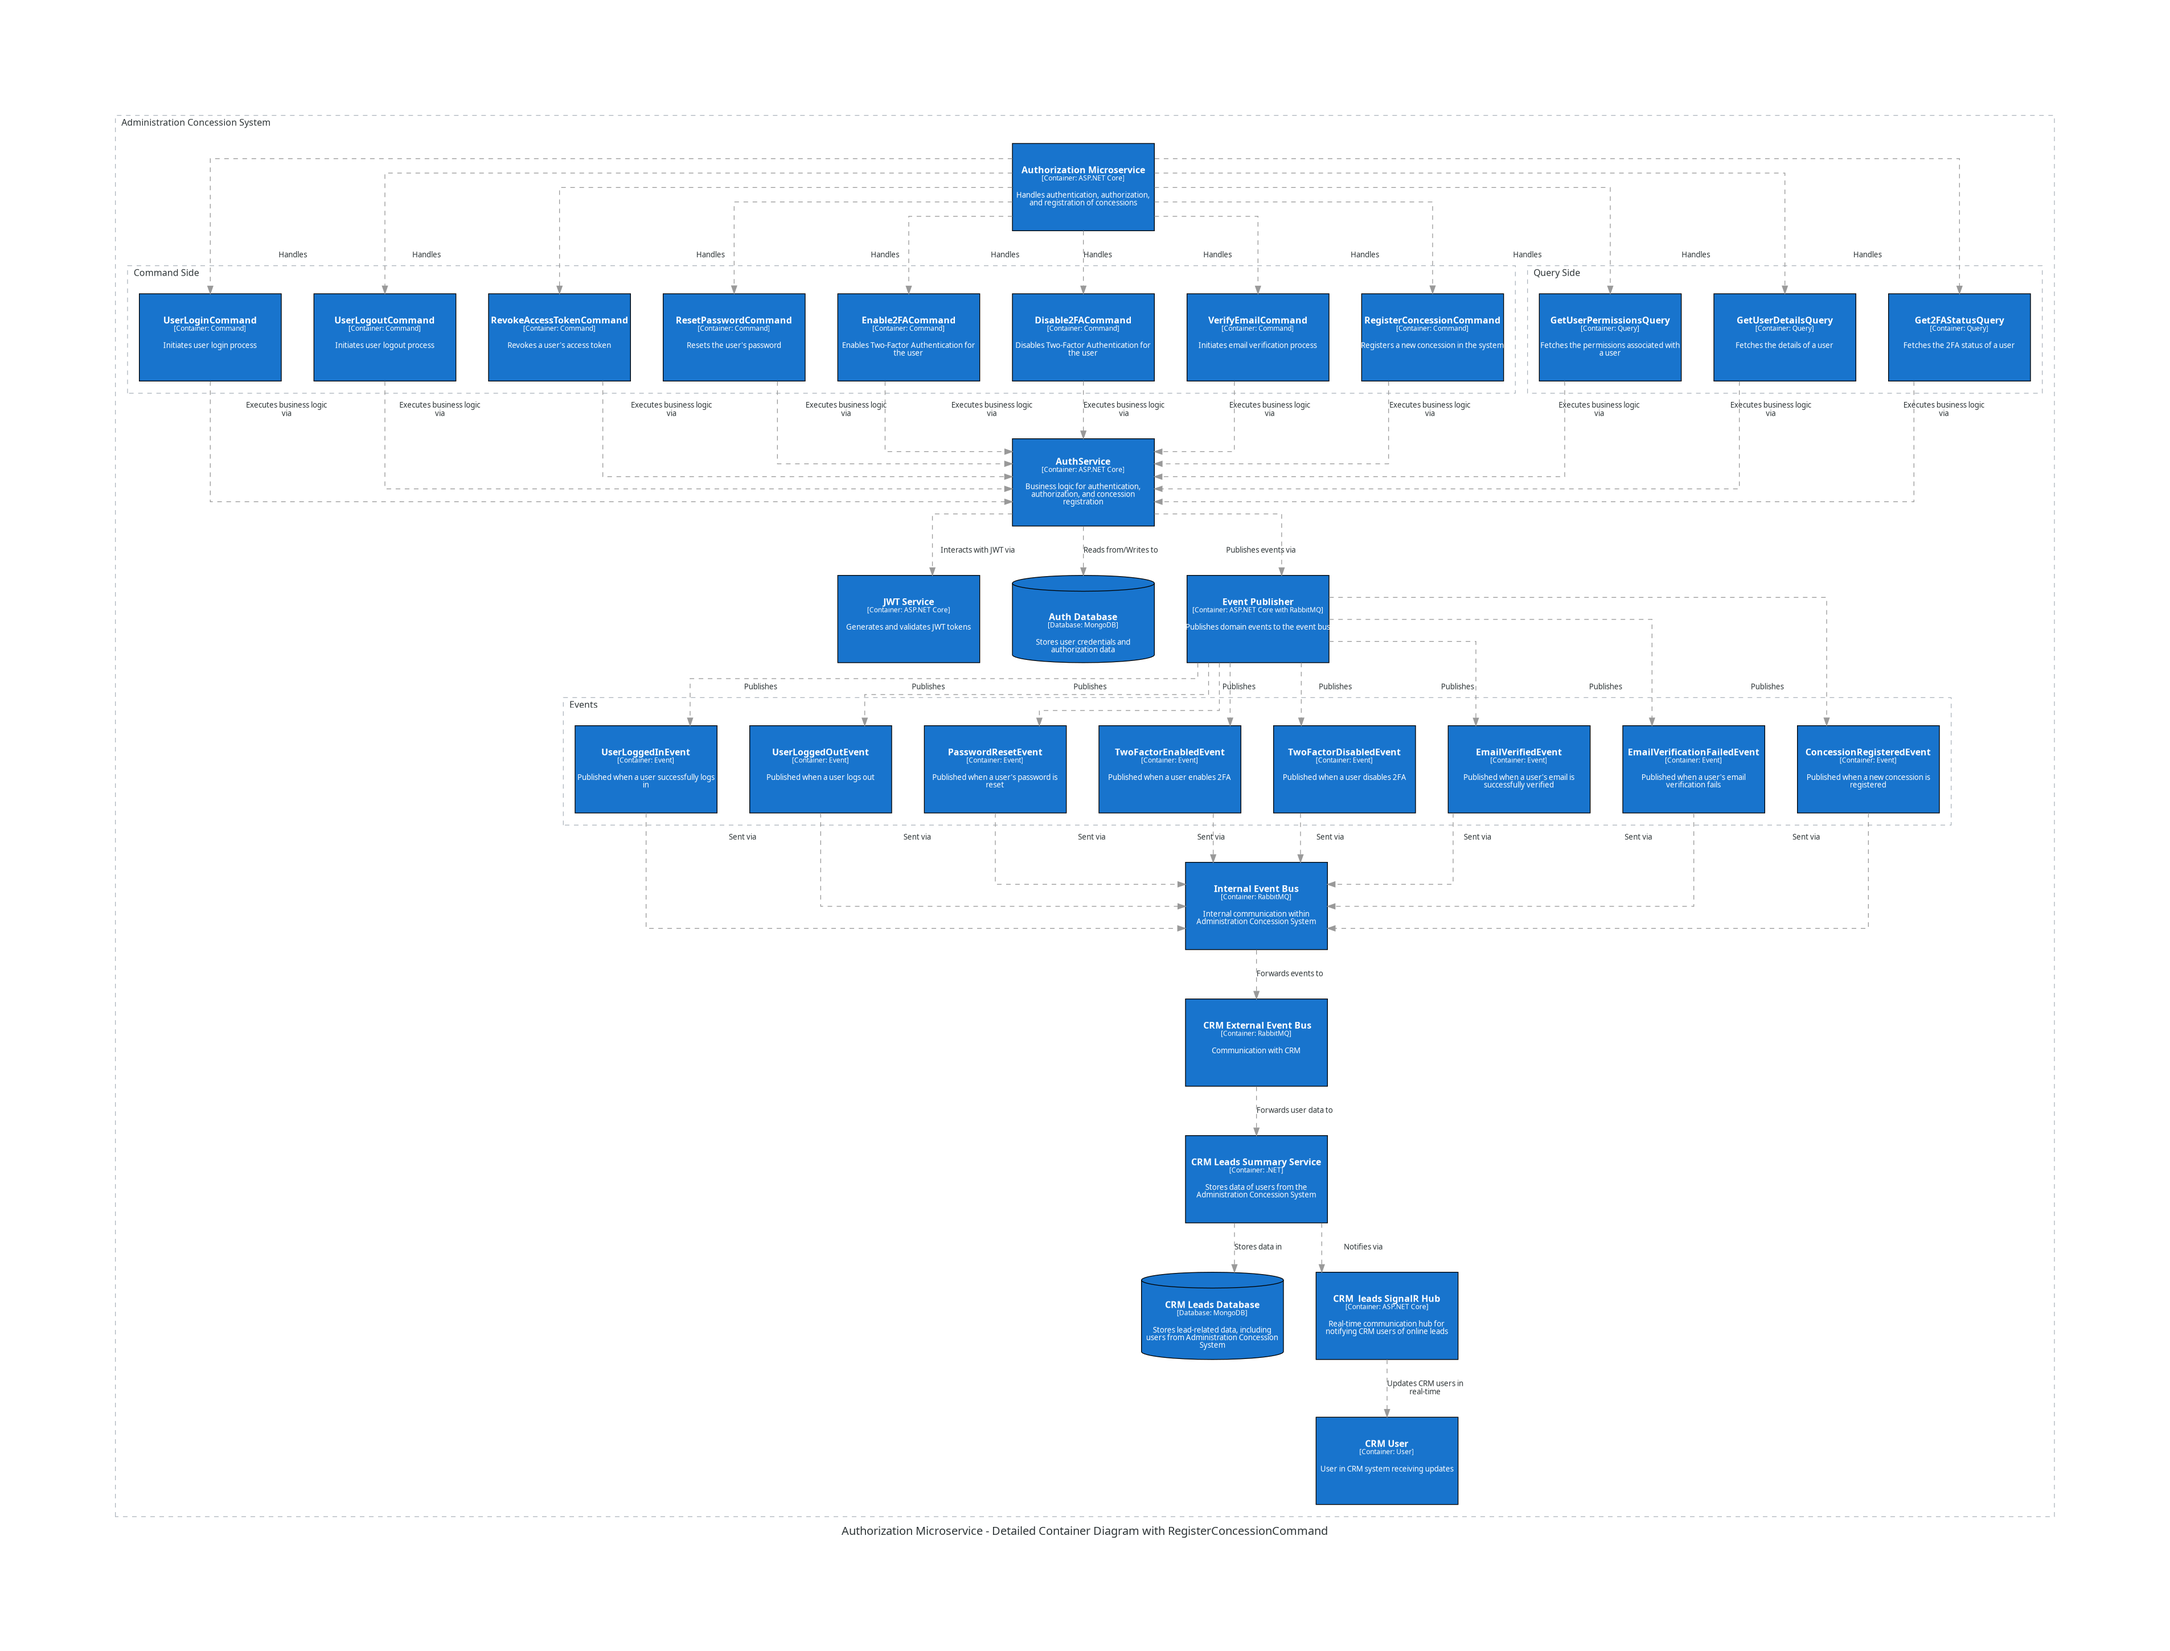
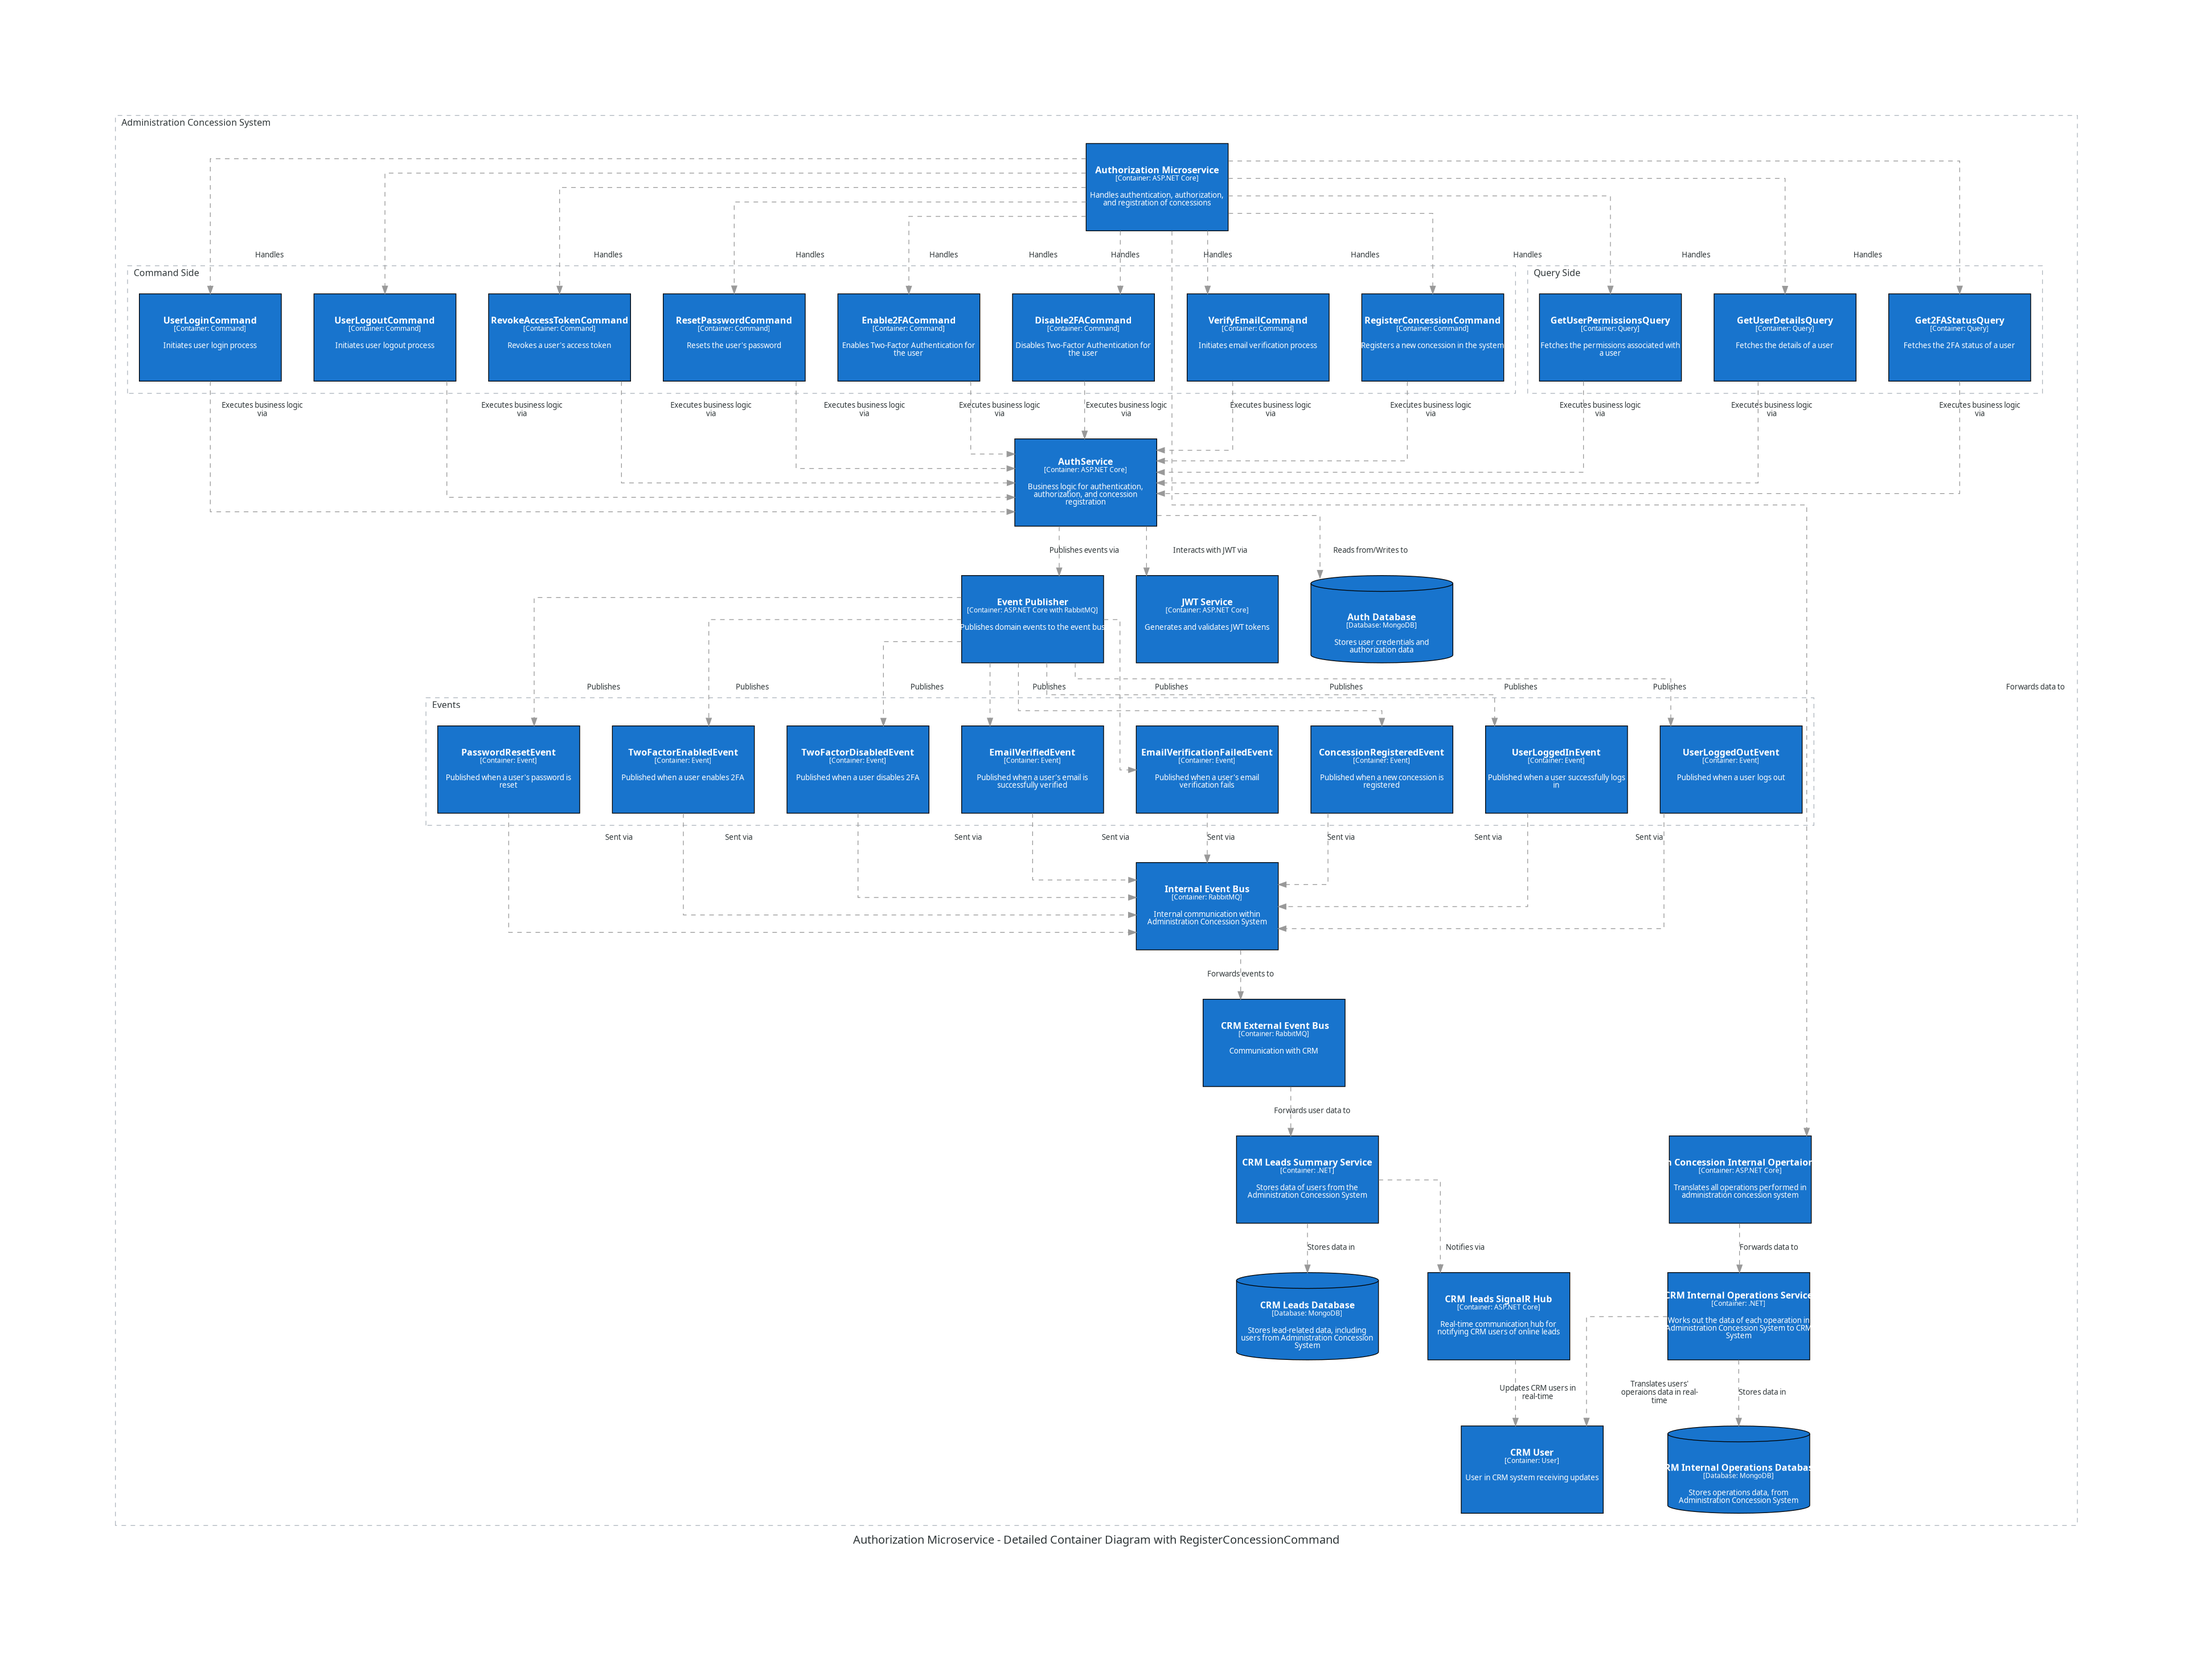
#2 udpate authorisation schema

Changed region(s): [[0.0625, 0.0621, 0.9368, 0.931], [0.4059, 0.9, 0.4684, 0.931], [0.0625, 0.0621, 0.1249, 0.0931]]

diff --git a/administration_concession_system/services_administration_concession_system/authorisation_service/container/container_authorisation_service.py b/administration_concession_system/services_administration_concession_system/authorisation_service/container/container_authorisation_service.py
@@ -10,6 +10,12 @@ with Diagram("Authorization Microservice - Detailed Container Diagram with Regis
             "Handles authentication, authorization, and registration of concessions"
         )
 
+        admin_internal_operations_service = Container(
+            "Administration Concession Internal Opertaions Microservice",
+            "ASP.NET Core",
+            "Translates all operations performed in administration concession system"
+        )
+
         # Command Side (CQRS)
         with SystemBoundary("Command Side"):
             user_login_command = Container(
@@ -215,6 +221,19 @@ with Diagram("Authorization Microservice - Detailed Container Diagram with Regis
             ".NET",
             "Stores data of users from the Administration Concession System"
         )
+        operations_internal_service_crm = Container(
+            "CRM Internal Operations Service",
+            ".NET",
+            "Works out the data of each opearation in Administration Concession System to CRM System"
+        )
+        auth_service >> Relationship("Forwards data to") >> admin_internal_operations_service
+        admin_internal_operations_service >> Relationship("Forwards data to") >> operations_internal_service_crm
+
+        operations_internal_service_crm >> Relationship("Stores data in") >> Database(
+            "CRM Internal Operations Database",
+            "MongoDB",
+            "Stores operations data, from Administration Concession System"
+        )
         
         external_event_bus >> Relationship("Forwards user data to") >> leads_service_crm
         leads_service_crm >> Relationship("Stores data in") >> Database(
@@ -238,3 +257,6 @@ with Diagram("Authorization Microservice - Detailed Container Diagram with Regis
         
         leads_service_crm >> Relationship("Notifies via") >> signalr_hub
         signalr_hub >> Relationship("Updates CRM users in real-time") >> user_crm
+        operations_internal_service_crm >>  Relationship("Translates users' operaions data in real-time") >> user_crm
+
+        
